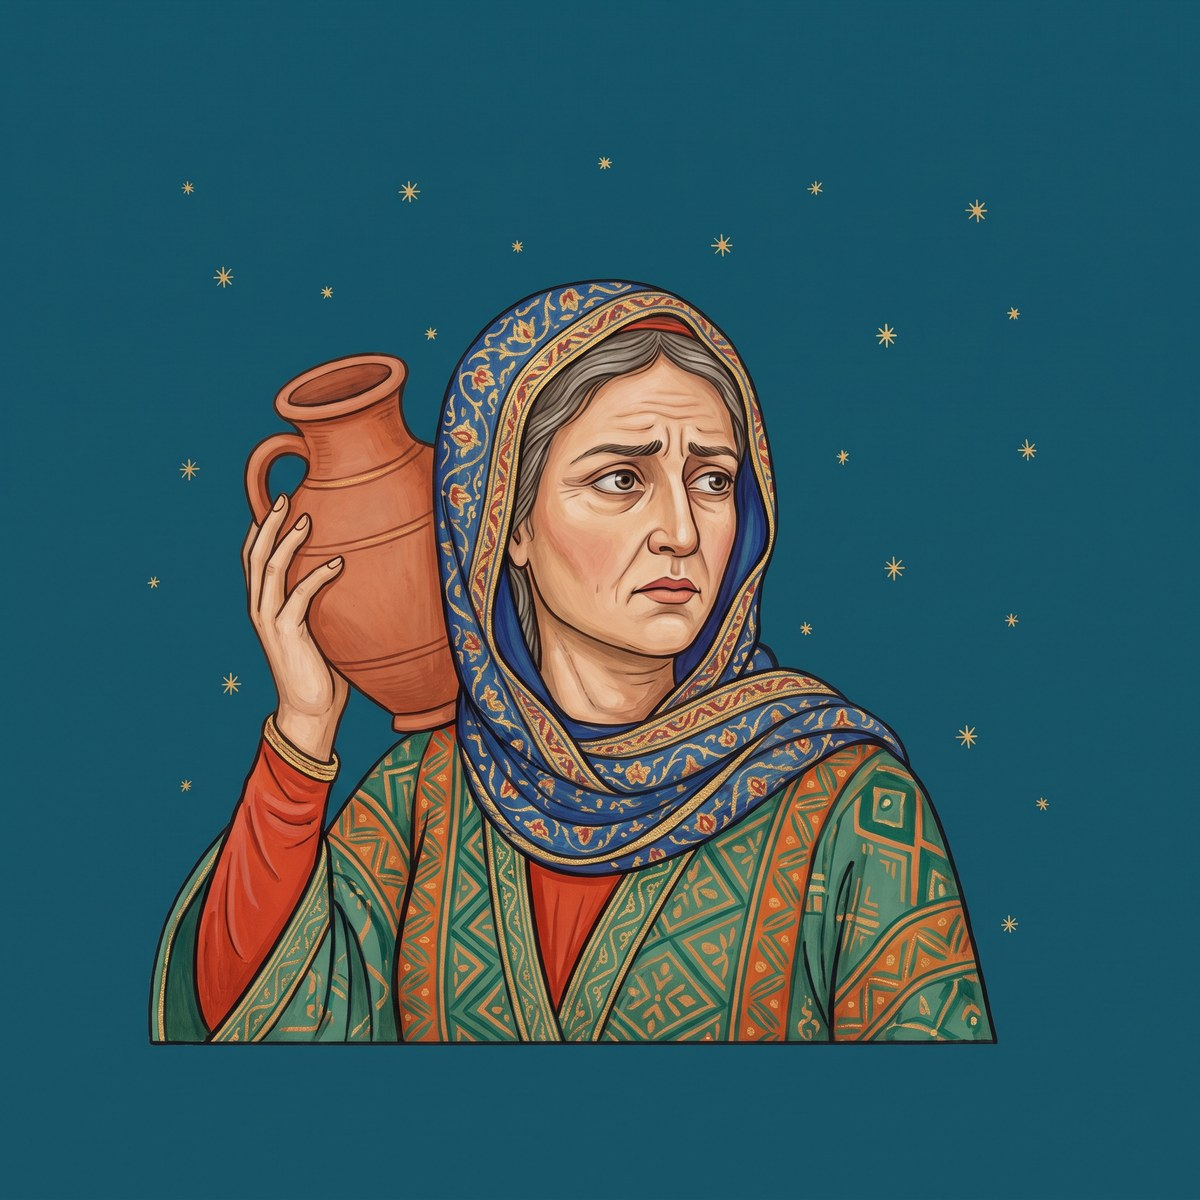
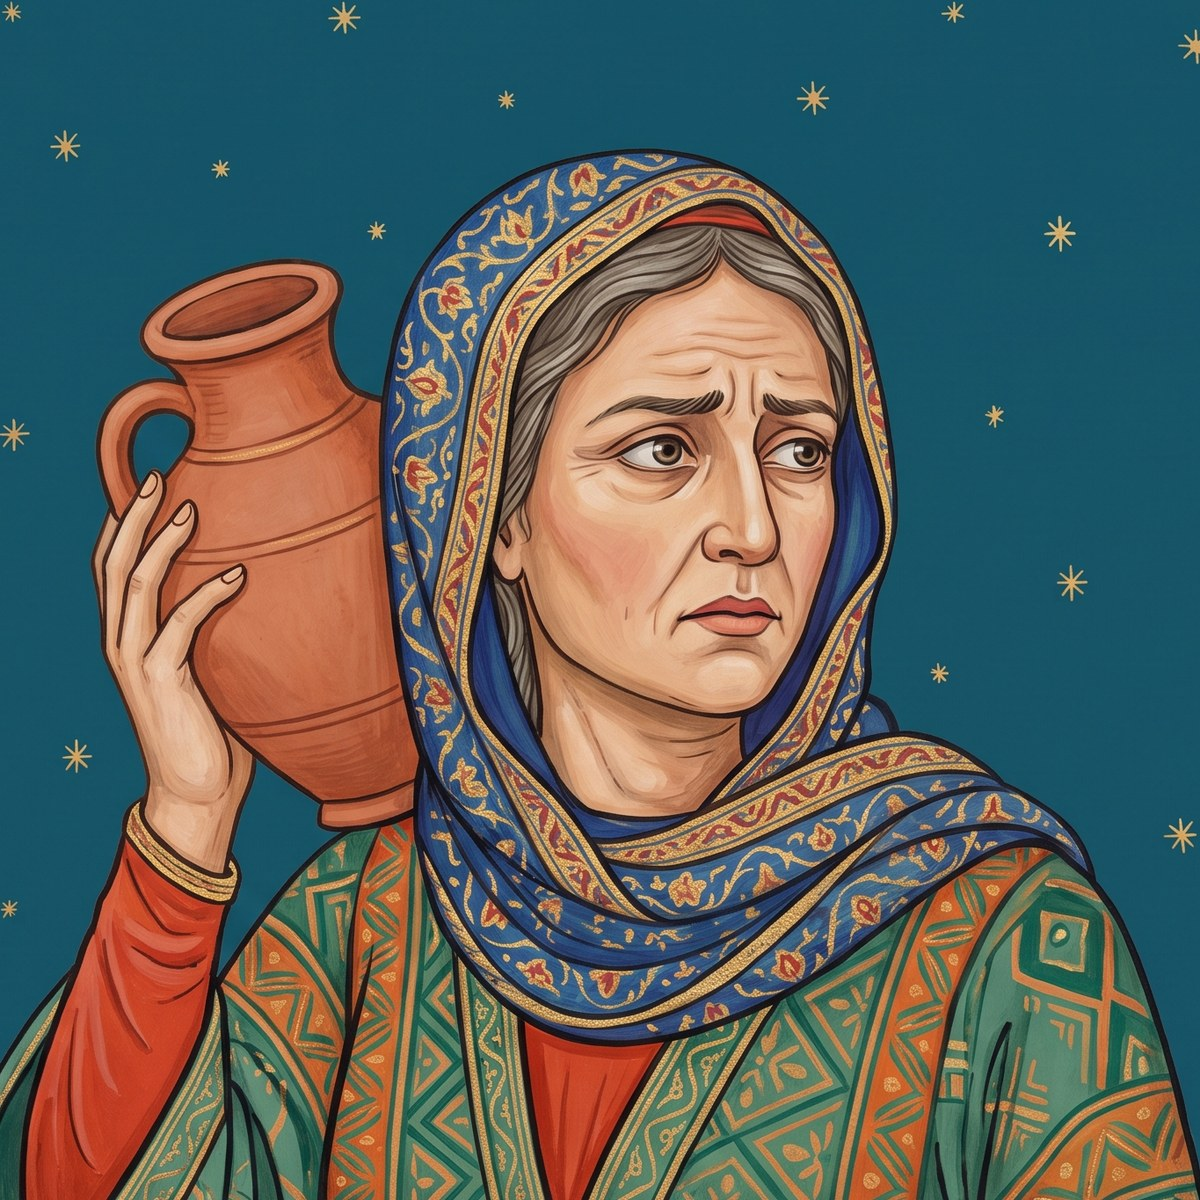
Zoom in on Isaac, Rashi, Rebekah, the Sages, and the stone
Recropped from the 2048px originals so the faces (and the stone) fill
more of the medallion. The pictures themselves are unchanged.

diff --git a/voices/data/portraits.js b/voices/data/portraits.js
@@ -3,12 +3,12 @@ window.VOICES = window.VOICES || { characters: {}, scripts: {}, sources: {}, cre
 VOICES.portraits = {
  "angel": "portraits/angel.jpg?v=ba0bc6d3",
  "esau": "portraits/esau.jpg?v=9620b0f0",
- "isaac": "portraits/isaac.jpg?v=12ba423e",
+ "isaac": "portraits/isaac.jpg?v=2c9781bf",
  "jacob": "portraits/jacob.jpg?v=c7e44878",
  "rambam": "portraits/rambam.jpg?v=0930fae6",
  "ramban": "portraits/ramban.jpg?v=9180456f",
- "rashi": "portraits/rashi.jpg?v=6cff0c4a",
- "rebekah": "portraits/rebekah.jpg?v=29c59edb",
- "sages": "portraits/sages.jpg?v=462be0b7",
- "stone": "portraits/stone.jpg?v=bd546adf"
+ "rashi": "portraits/rashi.jpg?v=5d514086",
+ "rebekah": "portraits/rebekah.jpg?v=889ee31e",
+ "sages": "portraits/sages.jpg?v=fddd60fe",
+ "stone": "portraits/stone.jpg?v=d8f30241"
 };
